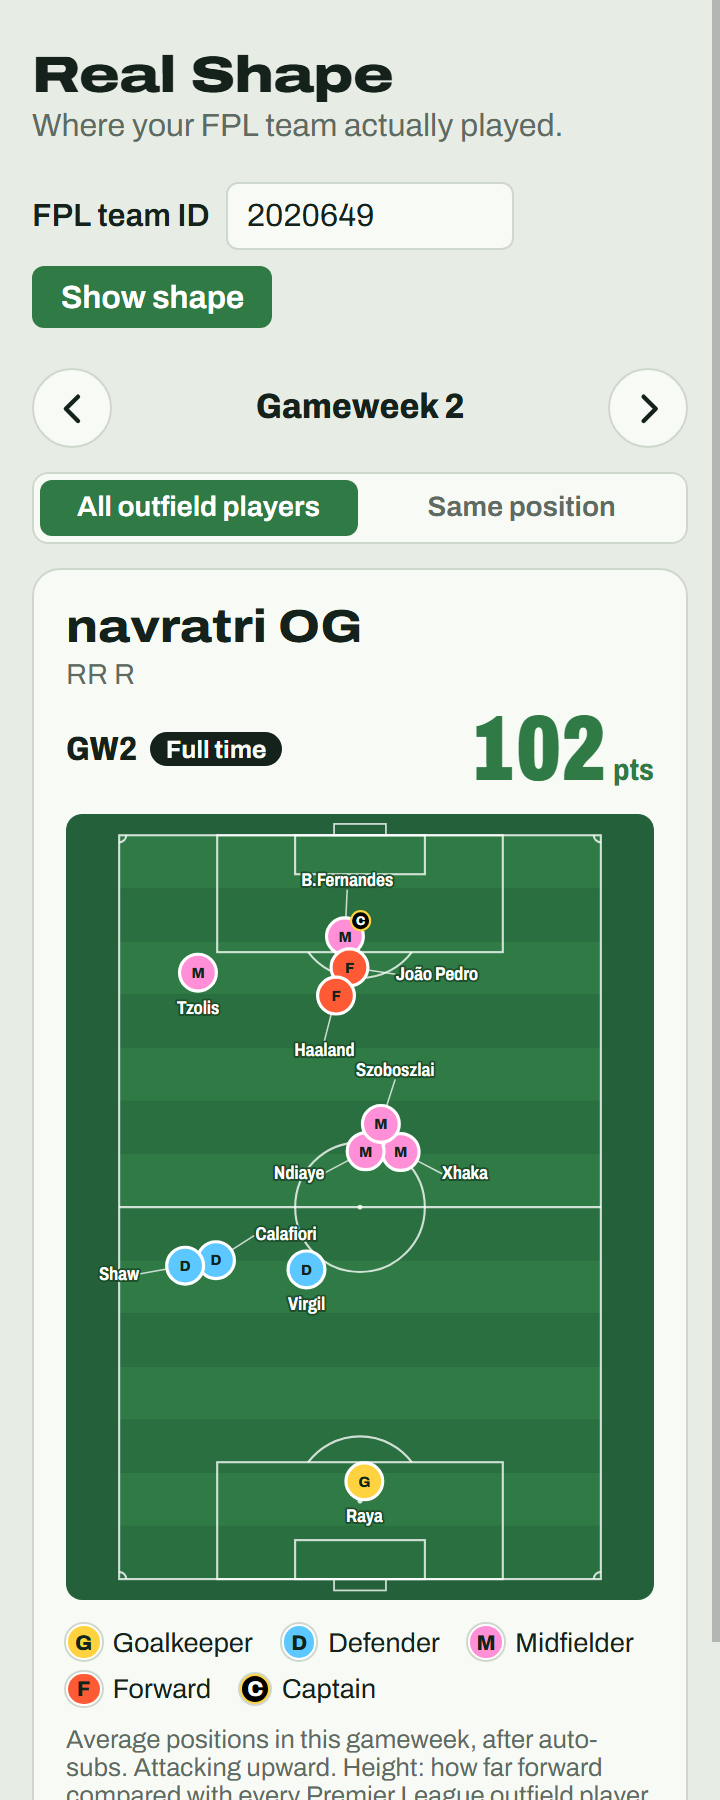
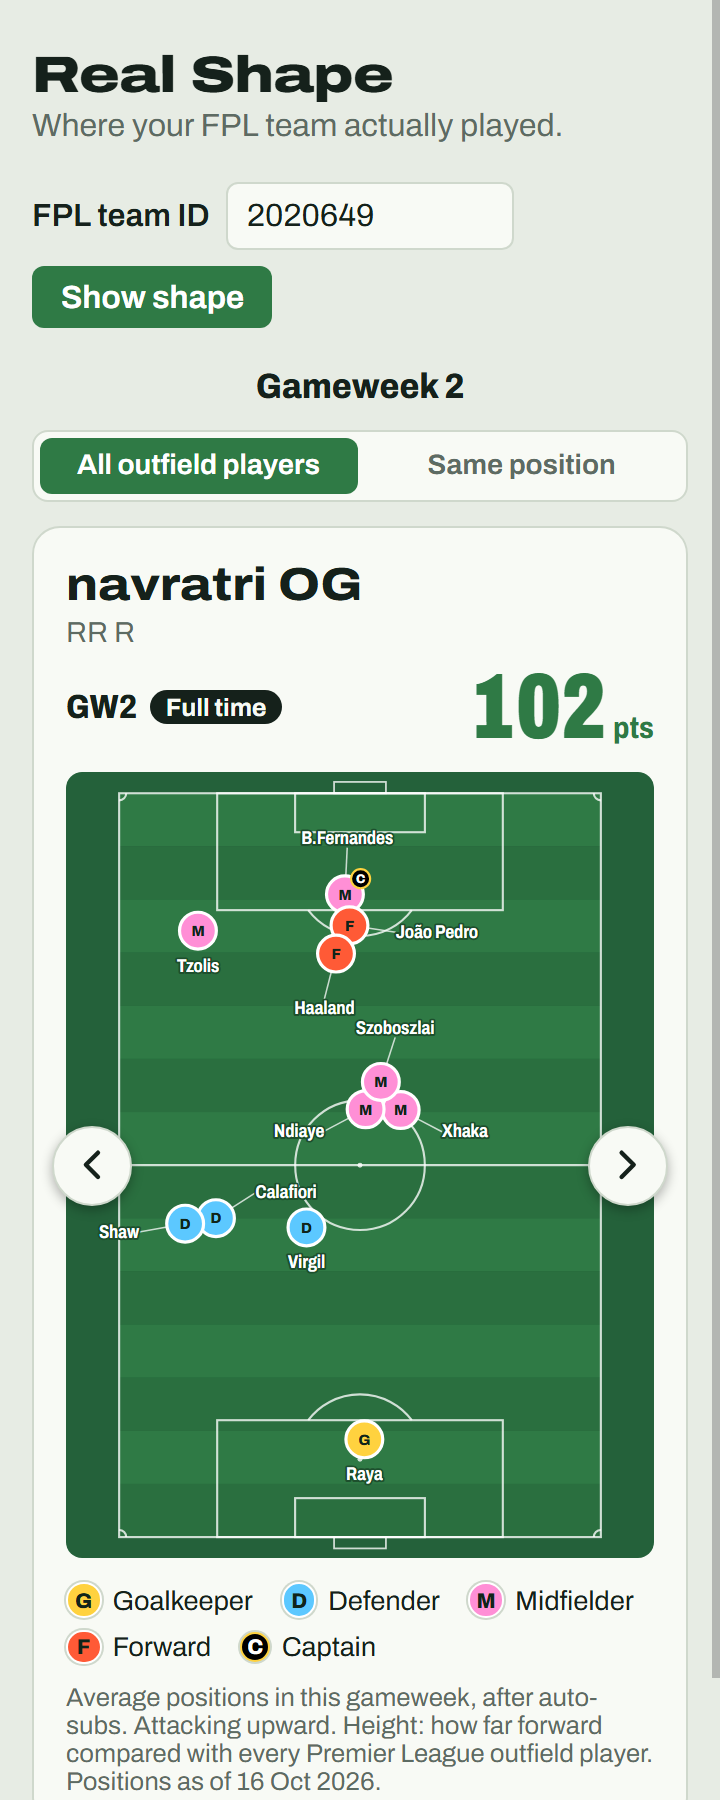
Put gameweek arrows back on the sides of the pitch (task 13 feedback)

diff --git a/frontend/src/App.tsx b/frontend/src/App.tsx
@@ -1,5 +1,5 @@
 // Team ID → the latest (or ?gw=) gameweek graphic. Team and gameweek are kept in
-// the URL: ?team=2020649&gw=6. The arrows under the team ID box (and the arrow
+// the URL: ?team=2020649&gw=6. Arrows on the sides of the pitch (and the arrow
 // keys) step through the team's gameweeks (the plot API says which exist).
 
 import { type FormEvent, useEffect, useState } from 'react'
@@ -146,9 +146,7 @@ function App() {
       {inputError && <p className="error">{inputError}</p>}
       {plot && !fixture && (
         <nav className="gw-nav" aria-label="Gameweek">
-          <GwArrow direction="prev" gw={prevGw} onGo={setGw} />
           <span className="gw-nav-current">Gameweek {loading && gw !== null ? gw : plot.gw}</span>
-          <GwArrow direction="next" gw={nextGw} onGo={setGw} />
         </nav>
       )}
       {plot && (
@@ -173,7 +171,18 @@ function App() {
       {!plot && loading && <p className="muted">Loading…</p>}
       {plot && (
         <div className={loading && !fixture ? 'card-slot is-loading' : 'card-slot'} aria-busy={loading && !fixture}>
-          <PitchCard plot={plot} depth={depth} />
+          <PitchCard
+            plot={plot}
+            depth={depth}
+            pitchSides={
+              fixture ? undefined : (
+                <>
+                  <GwArrow direction="prev" gw={prevGw} onGo={setGw} />
+                  <GwArrow direction="next" gw={nextGw} onGo={setGw} />
+                </>
+              )
+            }
+          />
         </div>
       )}
     </main>
@@ -193,7 +202,7 @@ function GwArrow({
   return (
     <button
       type="button"
-      className="gw-arrow"
+      className={`gw-arrow gw-arrow-${direction}`}
       disabled={gw === null}
       onClick={() => gw !== null && onGo(gw)}
       aria-label={gw === null ? label : `${label} (GW${gw})`}

diff --git a/frontend/src/PitchCard.tsx b/frontend/src/PitchCard.tsx
@@ -1,6 +1,8 @@
 // One gameweek graphic: team name, gameweek, the pitch and its legend.
 // Kept self-contained so it can be exported as an image later (task 15).
 
+import type { ReactNode } from 'react'
+
 import type { Plot, Role } from './api'
 import Pitch from './Pitch'
 import { type DepthMode, ROLE_LETTER } from './pitchLayout'
@@ -27,7 +29,17 @@ function formatDate(iso: string) {
   return new Date(`${iso}Z`).toLocaleDateString('en-GB', { day: 'numeric', month: 'short', year: 'numeric' })
 }
 
-export default function PitchCard({ plot, depth = 'all' }: { plot: Plot; depth?: DepthMode }) {
+export default function PitchCard({
+  plot,
+  depth = 'all',
+  pitchSides,
+}: {
+  plot: Plot
+  depth?: DepthMode
+  // Controls laid over the pitch's side margins (the gameweek arrows). Marked
+  // so the image export can leave them out.
+  pitchSides?: ReactNode
+}) {
   const state = STATE_TEXT[plot.state]
   const hasGhosts = plot.dots.some((d) => d.is_ghost)
   const hasLinks = plot.dots.some((d) => d.link_group !== null)
@@ -51,11 +63,18 @@ export default function PitchCard({ plot, depth = 'all' }: { plot: Plot; depth?:
         </div>
       </header>
 
-      <Pitch
-        dots={plot.dots}
-        depth={depth}
-        title={`${plot.team_name}, gameweek ${plot.gw}: real average positions`}
-      />
+      <div className="pitch-wrap">
+        <Pitch
+          dots={plot.dots}
+          depth={depth}
+          title={`${plot.team_name}, gameweek ${plot.gw}: real average positions`}
+        />
+        {pitchSides && (
+          <div className="pitch-sides" data-export-ignore>
+            {pitchSides}
+          </div>
+        )}
+      </div>
 
       <footer className="card-foot">
         <ul className="legend">

diff --git a/frontend/src/pitchLayout.ts b/frontend/src/pitchLayout.ts
@@ -171,8 +171,18 @@ function labelAt(d: LaidDot, angle: number, px: number, py: number): LaidDot['la
   return { x: px, y: sin > 0 ? py + NAME_SIZE * 0.8 : py - h + NAME_SIZE * 0.8, anchor: 'middle' }
 }
 
+// Where the gameweek arrows sit over the side margins, halfway down (see
+// `.pitch-sides` in index.css), with room for the larger arrow on a phone.
+// Labels keep clear of them.
+const ARROW_HALF = 6
+const ARROW_REACH = 10
+const ARROW_BOXES: Box[] = [
+  { x0: 0, y0: VIEW_H / 2 - ARROW_HALF, x1: ARROW_REACH, y1: VIEW_H / 2 + ARROW_HALF },
+  { x0: VIEW_W - ARROW_REACH, y0: VIEW_H / 2 - ARROW_HALF, x1: VIEW_W, y1: VIEW_H / 2 + ARROW_HALF },
+]
+
 function placeLabels(dots: LaidDot[]) {
-  const placed: Box[] = []
+  const placed: Box[] = [...ARROW_BOXES]
   const lines: Segment[] = []
   const inside = (b: Box) => b.x0 >= 0 && b.x1 <= VIEW_W && b.y0 >= 0 && b.y1 <= VIEW_H
   const crowded = new Set(

diff --git a/frontend/src/index.css b/frontend/src/index.css
@@ -115,9 +115,29 @@ input:focus-visible {
 
 .gw-nav {
   display: flex;
-  justify-content: space-between;
-  align-items: center;
+  justify-content: center;
   margin-bottom: 0.75rem;
+}
+
+.pitch-wrap {
+  position: relative;
+}
+
+/* Arrows centred in the dark side margins of the pitch (7.5 of 83 m each),
+   halfway down. Inside the card, so the page never scrolls sideways. */
+.pitch-sides .gw-arrow {
+  position: absolute;
+  top: 50%;
+  transform: translateY(-50%);
+  box-shadow: 0 2px 6px rgba(0, 0, 0, 0.3);
+}
+
+.pitch-sides .gw-arrow-prev {
+  left: calc(4.5% - 1.25rem);
+}
+
+.pitch-sides .gw-arrow-next {
+  right: calc(4.5% - 1.25rem);
 }
 
 .gw-nav-current {
@@ -156,7 +176,7 @@ input:focus-visible {
 
 .gw-arrow:disabled {
   color: var(--muted);
-  opacity: 0.35;
+  opacity: 0.45;
   cursor: default;
 }
 

diff --git a/README.md b/README.md
@@ -35,7 +35,7 @@ FPL shows a team as a tidy formation, but managers pick attacking "defenders" an
 
 - **Task 12 — Gameweek plot API endpoint** (done 2026-10-17): `GET /api/team/{team_id}/plot/{gw}` and `/plot/latest` return the graphic's JSON: team name, gameweek, `state` (preview / locked), `prev_gw` / `next_gw`, `data_as_of` (latest finished sync) and the dots (name, web name, role, club, slot, x / y rounded to 2 decimals, captain, ghost and reason, `from_gw`, `link_group`, `replaces`). `backend/app/logic/plot.py` joins task 11's dots with player details. `prev_gw` stops at the team's first gameweek, `next_gw` at the newest passed deadline. `latest` falls back one gameweek while FPL is not serving fresh picks yet. The web app never loads the Sofascore adapter (checked by a test and in the server log). Owner's team GW1-6 checked live, all locked, 11 dots, no ghosts. Docs and samples: `docs/api.md`. 215 tests pass.
 
-- **Task 13 — Pitch rendering (static, one locked GW)** (awaiting approval, 2026-10-17): React `Pitch` component draws an SVG pitch to scale (68 x 105 m, mown stripes, full markings) with the team attacking upward, from `GET /api/team/{id}/plot/{gw}`. Dots colored by FPL role with the role letter inside, a legend, short-name labels placed to avoid collisions, a black "C" captain badge, a "from GWx" / "auto-sub" second line, dashed lines joining double-gameweek dots, and greyed ghosts on the sideline. Players in the same spot are nudged apart by at most about 2 m. Crowded dots get callout labels on leader lines so each name clearly belongs to one dot. `PitchCard` adds the team name, GW number, the gameweek score (and any transfer hit, now in the plot API as `points` / `transfers_cost`), a Full time / Preview badge and the data date. Average positions bunch up in midfield, so the dot's height is a league rank, with two views behind buttons: "All outfield players" (default, percentile of depth among every outfield player-match) and "Same position" (only against the same FPL role); computed in the backend (`app/logic/depth.py`, new `depth_pct_all` / `depth_pct_role` on each dot). A "< Gameweek N >" row under the team ID box (and the arrow keys; pulled forward from task 14) step through every gameweek the team has played. Self-hosted Archivo font (ready for image export), fits a 360 px phone. The interim list view is removed. Dev-only sample with every edge case at `?fixture=edges`. Screenshots: `docs/screenshots/pitch-v1.png` (+ `-same-position`, `-phone`, `-edge-cases`).
+- **Task 13 — Pitch rendering (static, one locked GW)** (awaiting approval, 2026-10-17): React `Pitch` component draws an SVG pitch to scale (68 x 105 m, mown stripes, full markings) with the team attacking upward, from `GET /api/team/{id}/plot/{gw}`. Dots colored by FPL role with the role letter inside, a legend, short-name labels placed to avoid collisions, a black "C" captain badge, a "from GWx" / "auto-sub" second line, dashed lines joining double-gameweek dots, and greyed ghosts on the sideline. Players in the same spot are nudged apart by at most about 2 m. Crowded dots get callout labels on leader lines so each name clearly belongs to one dot. `PitchCard` adds the team name, GW number, the gameweek score (and any transfer hit, now in the plot API as `points` / `transfers_cost`), a Full time / Preview badge and the data date. Average positions bunch up in midfield, so the dot's height is a league rank, with two views behind buttons: "All outfield players" (default, percentile of depth among every outfield player-match) and "Same position" (only against the same FPL role); computed in the backend (`app/logic/depth.py`, new `depth_pct_all` / `depth_pct_role` on each dot). Arrows on the sides of the pitch (and the arrow keys; pulled forward from task 14) step through every gameweek the team has played. Self-hosted Archivo font (ready for image export), fits a 360 px phone. The interim list view is removed. Dev-only sample with every edge case at `?fixture=edges`. Screenshots: `docs/screenshots/pitch-v1.png` (+ `-same-position`, `-phone`, `-edge-cases`).
 
 ## Next task
 Waiting for owner approval on task 13 (`tasks/13-pitch-rendering.md`). Then **Task 14 — Gameweek mode UI + navigation** → `tasks/14-gameweek-mode-ui.md`

diff --git a/tasks/13-pitch-rendering.md b/tasks/13-pitch-rendering.md
@@ -33,6 +33,7 @@ A good-looking pitch graphic for one locked gameweek, drawn from the plot API.
 - **Iteration 5 (owner request, 2026-10-17):** previous / next gameweek buttons above the card (pulled forward from task 14), driven by the plot API's `prev_gw` / `next_gw`; the URL follows (`&gw=`), the chosen depth view is kept, and the current card stays on screen dimmed while the next one loads. Verified by clicking through in headless Chrome: GW6 (latest, Next disabled) back to GW1 (Previous disabled) and forward again, 11 dots and no error at every step. Captain badges are now drawn above all dots (in GW1 João Pedro's dot covered Bruno's badge).
 - **Iteration 6 (owner request, 2026-10-17):** the gameweek buttons became round arrows either side of the GW label in the card header ("< GW6 >"), disabled when there is no earlier / later gameweek; the left / right arrow keys do the same (not while typing in the team ID box). On phones (< 30rem) the header stacks: team name on its own line, then arrows + badge + score, so nothing scrolls sideways (checked at 360 px). (Superseded by iteration 7.) Re-verified by clicking: GW6 -> GW1 -> GW2, arrow keys GW2 -> GW3 -> GW2, 11 dots and no error each time.
 - **Iteration 7 (owner request, 2026-10-17):** arrows moved out of the card into their own row under the team ID box and above the view buttons: round arrow at each edge (pitch width), "Gameweek N" between them. The card header is static again (nothing for the export to hide). On phones the card header still stacks (team name, then GW + score). Re-verified: GW6 -> GW1 -> GW2 by clicking, arrow keys GW2 -> GW3 -> GW2, no sideways scroll at 360 px.
+- **Iteration 8 (owner request, 2026-10-17):** arrows back on the sides of the pitch: round buttons centred in the dark side margins, halfway down, laid over the pitch inside the card (marked `data-export-ignore` for task 15), so the page never scrolls sideways (checked at 360 px). "Gameweek N" stays alone in the row under the team ID box. Name labels keep clear of the two arrow spots. Re-verified clicking GW6 -> GW1 -> GW2 and the arrow keys.
 - **Overlapping players:** dots closer than 1.7 dot radii are pushed apart, at most 0.9 radius (about 2.3 m, under 2.5% of the pitch), so two players in the same spot both show (GW6: Hall and De Cuyper are 1.4 units apart). Labels try 8 spots around each dot and take the first with no collision, else the least overlap.
 - **Screenshots:** `docs/screenshots/pitch-v1.png` (owner's team 2020649, GW6 locked, 600 px wide), `pitch-v1-phone.png` (same at 360 px), `pitch-v1-edge-cases.png`. The owner's team has no ghost, double gameweek or "from GW" label yet, so the edge-case shot uses a dev-only sample: `http://localhost:5173/?fixture=edges` (`src/fixtures/edgeCases.ts`, not in the production build).
 - Checked: `npm run build` and `npm run lint` clean; GW1-6 render; headless Chrome screenshots at 600 px and 360 px.

diff --git a/tasks/14-gameweek-mode-ui.md b/tasks/14-gameweek-mode-ui.md
@@ -22,4 +22,4 @@ The full Gameweek mode flow, minus image export (task 15).
 - [ ] Update the root `README.md`: add this task under **Tasks completed** with a short summary of the work done, and set **Next task** to the next task and its file path (for a 🛑 task: "waiting for owner approval on task NN").
 
 ## Notes
-- 2026-10-17: prev / next navigation already built during task 13 (owner request): a row under the team ID box with a round arrow at each edge and "Gameweek N" between, plus the left / right arrow keys, disabled at the edges, URL `?team=&gw=`, card dimmed while loading; checked GW6 → GW1 → GW2 for team 2020649. Still to do here: remember the last team ID (localStorage), "positions data as of" placement, loading / error states review, preview-GW checks.
+- 2026-10-17: prev / next navigation already built during task 13 (owner request): round arrows on the sides of the pitch, "Gameweek N" in a row under the team ID box, plus the left / right arrow keys, disabled at the edges, URL `?team=&gw=`, card dimmed while loading; checked GW6 → GW1 → GW2 for team 2020649. Still to do here: remember the last team ID (localStorage), "positions data as of" placement, loading / error states review, preview-GW checks.
